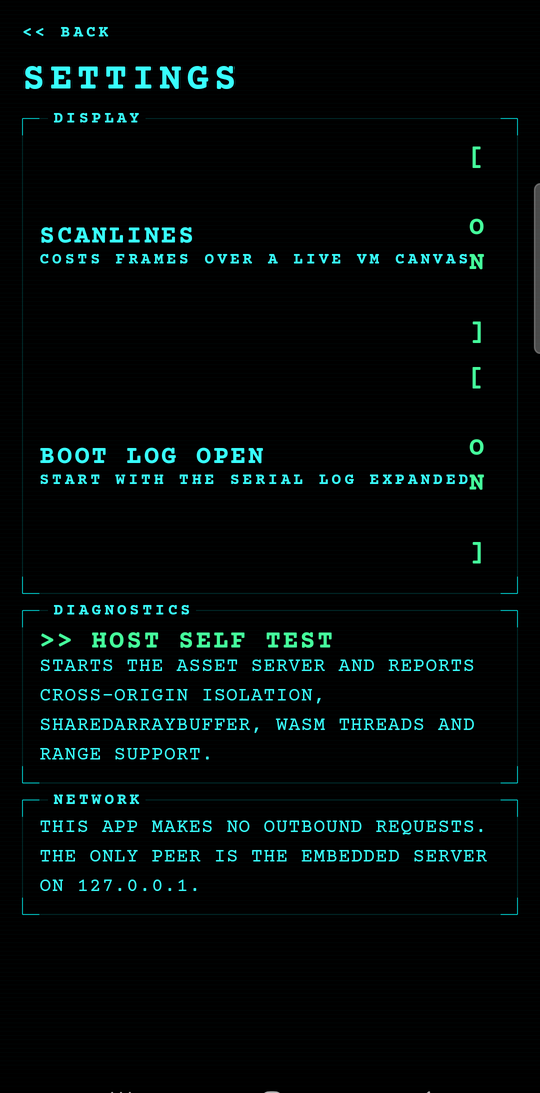
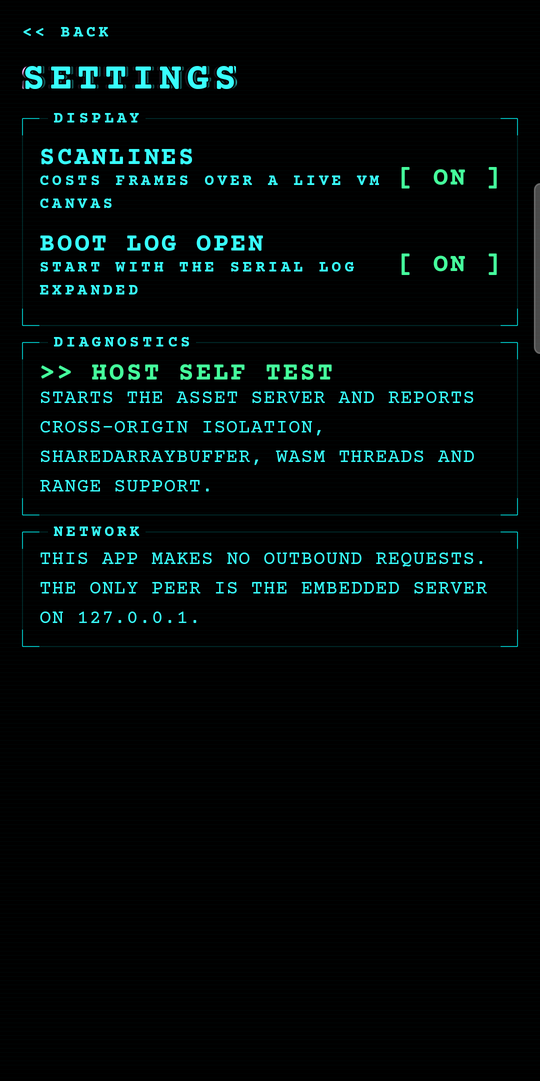
Fix label and value collision in settings and machine detail (#37)
* fix: stop label text from squeezing its row's value

* docs: refresh the settings shot and add the detail screen

---------

diff --git a/composeApp/src/commonMain/kotlin/com/umain/draugr/ui/screens/MachineDetailScreen.kt b/composeApp/src/commonMain/kotlin/com/umain/draugr/ui/screens/MachineDetailScreen.kt
@@ -17,6 +17,7 @@ import androidx.compose.runtime.mutableStateOf
 import androidx.compose.runtime.remember
 import androidx.compose.runtime.setValue
 import androidx.compose.ui.Modifier
+import androidx.compose.ui.text.style.TextAlign
 import androidx.compose.ui.unit.dp
 import com.umain.draugr.catalog.MachineSpec
 import com.umain.draugr.catalog.formatBytes
@@ -182,9 +183,23 @@ fun MachineDetailScreen(
 private fun SpecRow(label: String, value: String) {
     Row(
         modifier = Modifier.fillMaxWidth().padding(vertical = 2.dp),
-        horizontalArrangement = Arrangement.SpaceBetween,
+        horizontalArrangement = Arrangement.spacedBy(12.dp),
     ) {
-        Text(text = label, style = MaterialTheme.typography.labelSmall, color = MutedText)
-        Text(text = value, style = MaterialTheme.typography.bodyMedium, color = PrimaryText)
+        // A long asset path used to run straight into its label. The label keeps its width, the
+        // value takes the rest and wraps right-aligned inside it.
+        Text(
+            text = label,
+            style = MaterialTheme.typography.labelSmall,
+            color = MutedText,
+            maxLines = 1,
+            softWrap = false,
+        )
+        Text(
+            text = value,
+            style = MaterialTheme.typography.bodyMedium,
+            color = PrimaryText,
+            textAlign = TextAlign.End,
+            modifier = Modifier.weight(1f),
+        )
     }
 }

diff --git a/composeApp/src/commonMain/kotlin/com/umain/draugr/ui/screens/SettingsScreen.kt b/composeApp/src/commonMain/kotlin/com/umain/draugr/ui/screens/SettingsScreen.kt
@@ -113,10 +113,12 @@ private fun Toggle(
 ) {
     Row(
         modifier = Modifier.fillMaxWidth().padding(vertical = 6.dp).clickable { onToggle() },
-        horizontalArrangement = Arrangement.SpaceBetween,
+        horizontalArrangement = Arrangement.spacedBy(12.dp),
         verticalAlignment = Alignment.CenterVertically,
     ) {
-        Column {
+        // The text takes the leftover width and the state keeps its own. Without the weight the
+        // description claimed the whole row and squeezed `[ ON ]` down to one character a line.
+        Column(modifier = Modifier.weight(1f)) {
             Text(
                 text = label,
                 style = MaterialTheme.typography.titleMedium,
@@ -132,6 +134,8 @@ private fun Toggle(
             text = if (enabled) "[ ON ]" else "[ OFF ]",
             style = MaterialTheme.typography.titleMedium,
             color = if (enabled) AccentText else MutedText,
+            maxLines = 1,
+            softWrap = false,
         )
     }
 }

diff --git a/README.md b/README.md
@@ -9,9 +9,9 @@ web view.
 
 **Proof of concept. Local only. Not for store distribution.**
 
-| Catalog | Machine | Snapshots | Settings |
-|---|---|---|---|
-| ![Catalog](docs/screenshots/android-catalog.png) | ![FreeDOS running](docs/screenshots/android-machine.png) | ![Saved states](docs/screenshots/android-snapshots.png) | ![Settings](docs/screenshots/android-settings.png) |
+| Catalog | Machine | Detail | Snapshots | Settings |
+|---|---|---|---|---|
+| ![Catalog](docs/screenshots/android-catalog.png) | ![FreeDOS running](docs/screenshots/android-machine.png) | ![Machine detail](docs/screenshots/android-detail.png) | ![Saved states](docs/screenshots/android-snapshots.png) | ![Settings](docs/screenshots/android-settings.png) |
 
 Android above, a Galaxy A34 running FreeDOS through v86. The same build on iOS:
 
